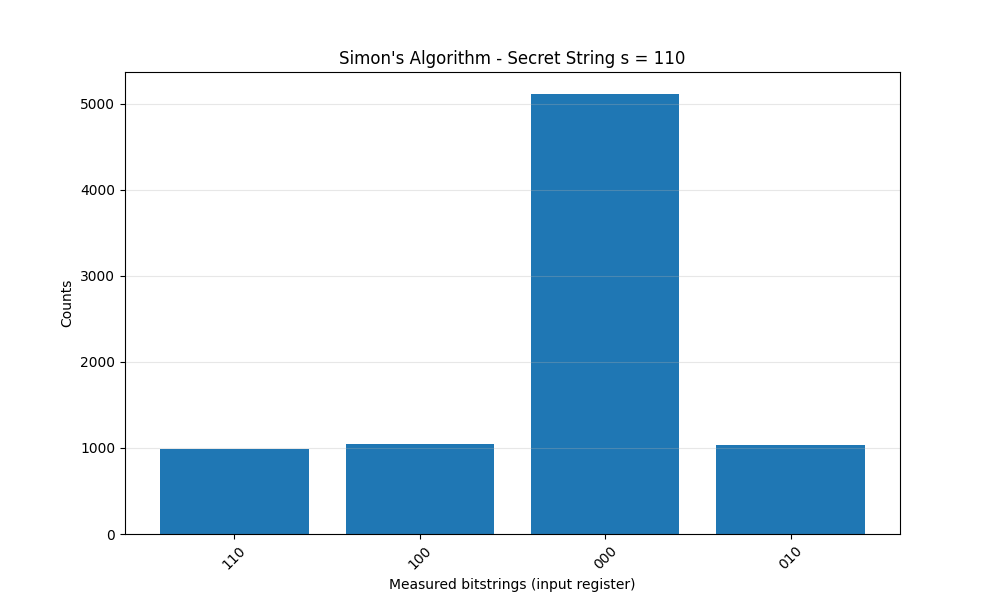
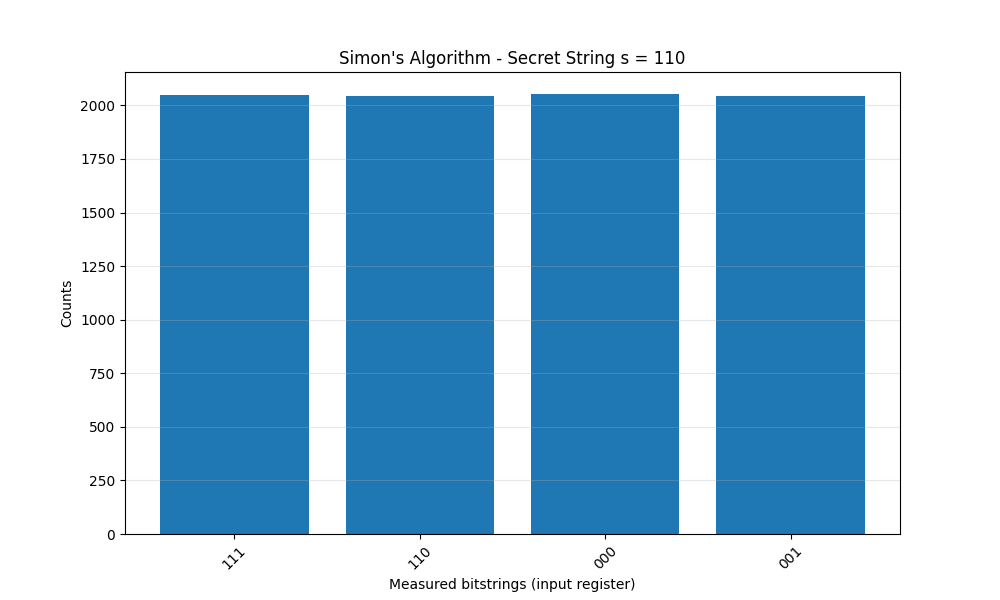
fix simons algo

diff --git a/factories/circuit_factory.py b/factories/circuit_factory.py
@@ -343,37 +343,41 @@ def get_deutsch_jozsa_circuit(n_qubits: int, case: str) -> QuantumCircuit:
 
 def create_simon_oracle(s: str) -> QuantumCircuit:
     """
-    Creates the Simon oracle for secret string s.
-    Implements |x⟩|y⟩ → |x⟩|y ⊕ f(x)⟩ where f(x) = f(x ⊕ s) for all x.
-    
-    For n=3, f(x) = (x · s) mod 2  (linear function over GF(2))
+    Creates a valid 2-to-1 Simon oracle where f(x) = f(x ⊕ s).
     """
     n = len(s)
-    if n != 3:
-        raise ValueError("This implementation supports only 3-qubit Simon's (n=3)")
-    if not all(bit in '01' for bit in s):
-        raise ValueError("Secret string must consist only of '0' and '1'")
-
     qc = QuantumCircuit(n + n, name=f"SimonOracle_s={s}")
+    
+    # Qiskit little-endian: s_bits[0] is the rightmost bit (LSB)
+    s_bits = [int(bit) for bit in reversed(s)]
+    
+    # Find the first index 'k' where s_k == 1 to act as the reference/shift bit
+    k = -1
+    for i, bit in enumerate(s_bits):
+        if bit == 1:
+            k = i
+            break
 
-    # For each output qubit i, we compute y_i ← y_i ⊕ (x · s)_i
-    # Since it's the standard Simon promise, we can implement it as controlled-X
-    # from the input bits where s_j == '1' to each output bit (because f is linear)
+    # If s is "000", the oracle is just a 1-to-1 identity mapping
+    if k == -1:
+        for i in range(n):
+            qc.cx(i, n + i)
+        return qc.to_gate()
 
-    s_bits = [int(bit) for bit in reversed(s)]  # Qiskit little-endian
-
-    for i in range(n):                      # for each output qubit y_i
-        controls = []
-        for j in range(n):
-            if s_bits[j] == 1:              # if this input bit is in the support of s
-                controls.append(j)          # control from input qubit j
-
-        if controls:
-            # Apply multi-controlled X (C...CX) from controls → output qubit (n + i)
-            if len(controls) == 1:
-                qc.cx(controls[0], n + i)
-            else:
-                qc.mcx(controls, n + i)     # multi-controlled X
+    # 2-to-1 Mapping Logic:
+    # We ensure that flipping the bits of s in the input results in the same output.
+    for i in range(n):
+        if s_bits[i] == 1:
+            if i != k:
+                # Output bit i becomes the XOR of input bit i and reference bit k
+                # f(x)_i = x_i ⊕ x_k
+                qc.cx(k, n + i)
+                qc.cx(i, n + i)
+            # If i == k, we leave the output bit n+k as |0>. 
+            # This ensures f(x) = f(x ⊕ s) because both inputs map to 0 at this index.
+        else:
+            # 1-to-1 mapping for bits where s_i == 0
+            qc.cx(i, n + i)
 
     return qc.to_gate()
 """End Simon's Algorithm"""
